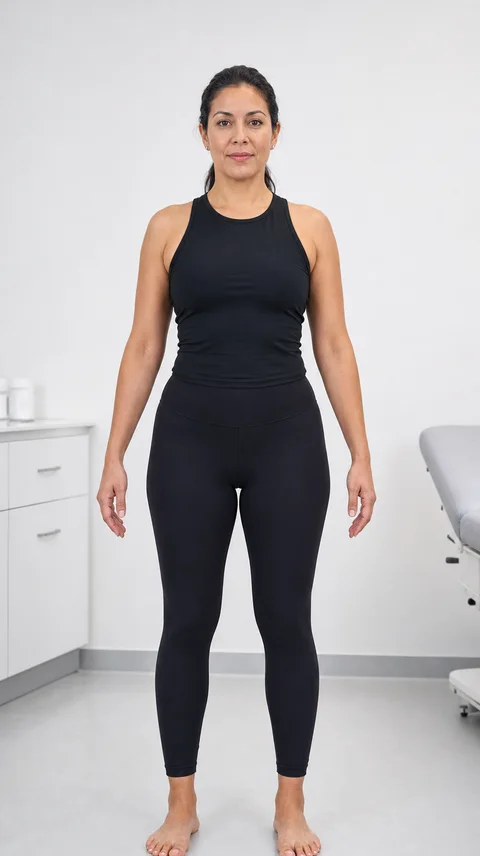
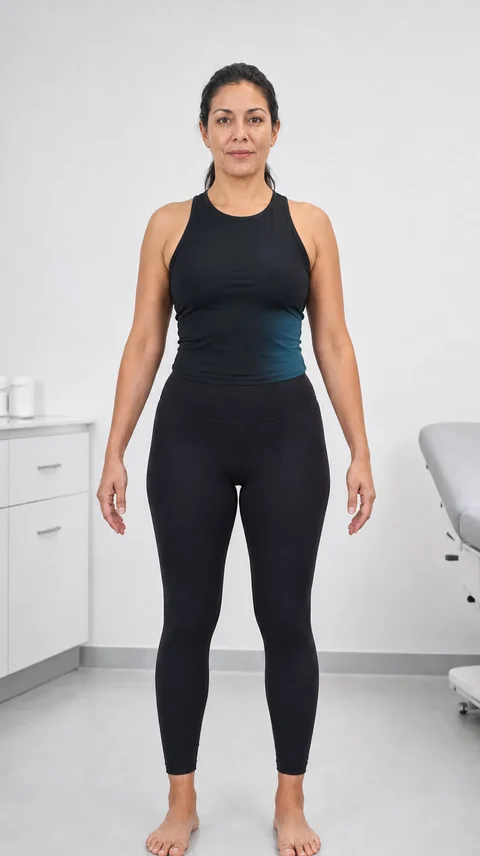
Integra selecciones en fotografías clínicas

diff --git a/public/presentacion/index.html b/public/presentacion/index.html
@@ -1764,83 +1764,9 @@
       object-fit: cover;
     }
     .body-map .clinical-photo {
-      object-fit: contain;
+      object-fit: cover;
+      object-position: center 20%;
       background: #f7f8fa;
-    }
-    .photo-zone {
-      position: absolute;
-      z-index: 1;
-      border: 1px solid rgba(2,132,199,.62);
-      border-radius: 44%;
-      background: linear-gradient(135deg, rgba(56,189,248,.24), rgba(59,130,246,.16));
-      box-shadow:
-        inset 0 0 12px rgba(186,230,253,.38),
-        0 0 0 1px rgba(255,255,255,.52);
-      backdrop-filter: saturate(1.12);
-    }
-    .face-map .zone-forehead {
-      top: 22%;
-      left: 50%;
-      width: 46%;
-      height: 12%;
-      transform: translateX(-50%);
-      border-radius: 52% 52% 38% 38%;
-    }
-    .face-map .zone-cheek-left {
-      top: 45%;
-      left: 13%;
-      width: 29%;
-      height: 16%;
-      transform: rotate(10deg);
-    }
-    .face-map .zone-cheek-right {
-      top: 45%;
-      right: 13%;
-      width: 29%;
-      height: 16%;
-      transform: rotate(-10deg);
-    }
-    .face-map .zone-nose {
-      top: 42%;
-      left: 50%;
-      width: 13%;
-      height: 21%;
-      transform: translateX(-50%);
-      border-radius: 48% 48% 42% 42%;
-    }
-    .face-map .zone-chin {
-      top: 69%;
-      left: 50%;
-      width: 24%;
-      height: 9%;
-      transform: translateX(-50%);
-      border-radius: 42% 42% 56% 56%;
-    }
-    .body-map .photo-zone {
-      border-color: rgba(192,38,211,.52);
-      background: linear-gradient(135deg, rgba(232,121,249,.20), rgba(168,85,247,.14));
-      box-shadow:
-        inset 0 0 12px rgba(250,232,255,.32),
-        0 0 0 1px rgba(255,255,255,.48);
-    }
-    .body-map .zone-abdomen {
-      top: 46%;
-      left: 50%;
-      width: 28%;
-      height: 9%;
-      transform: translateX(-50%);
-    }
-    .body-map .zone-thigh-left {
-      top: 60%;
-      left: 35%;
-      width: 12%;
-      height: 15%;
-    }
-    .body-map .zone-thigh-right {
-      top: 60%;
-      right: 35%;
-      width: 12%;
-      height: 15%;
     }
     .clinical-map .outline {
       fill: rgba(255,255,255,.72);
@@ -3225,16 +3151,11 @@
                 <span class="record-status">Migrada ✓</span>
               </div>
               <div class="record-preview">
-                <div class="clinical-map photo-map face-map" aria-label="Rostro real con zonas de tratamiento">
-                  <img class="clinical-photo" src="../presentacion/assets/clinical-face-woman.webp" alt="Rostro frontal de una mujer para ficha estética facial" loading="lazy" />
-                  <span class="photo-zone zone-forehead" aria-hidden="true"></span>
-                  <span class="photo-zone zone-cheek-left" aria-hidden="true"></span>
-                  <span class="photo-zone zone-cheek-right" aria-hidden="true"></span>
-                  <span class="photo-zone zone-nose" aria-hidden="true"></span>
-                  <span class="photo-zone zone-chin" aria-hidden="true"></span>
+                <div class="clinical-map photo-map face-map" aria-label="Rostro real con pómulo derecho seleccionado">
+                  <img class="clinical-photo" src="../presentacion/assets/clinical-face-woman.webp" alt="Rostro frontal de una mujer con el pómulo derecho marcado en azul" loading="lazy" />
                 </div>
                 <div class="record-fields">
-                  <div class="record-field"><b>Zonas tratadas</b><span>Frente · pómulos · nariz · mentón</span></div>
+                  <div class="record-field"><b>Zona seleccionada</b><span>Pómulo derecho</span></div>
                   <div class="record-field"><b>Protocolo y dosis</b><span>Detalle por producto y sesión</span></div>
                   <div class="record-field"><b>Evolución fotográfica</b><span>Antes · control · resultado</span></div>
                 </div>
@@ -3246,15 +3167,12 @@
                 <span class="record-status">Migrada ✓</span>
               </div>
               <div class="record-preview">
-                <div class="clinical-map photo-map body-map" aria-label="Cuerpo real con zonas de tratamiento">
-                  <img class="clinical-photo" src="../presentacion/assets/clinical-body-woman.webp" alt="Cuerpo frontal de una mujer para ficha estética corporal" loading="lazy" />
-                  <span class="photo-zone zone-abdomen" aria-hidden="true"></span>
-                  <span class="photo-zone zone-thigh-left" aria-hidden="true"></span>
-                  <span class="photo-zone zone-thigh-right" aria-hidden="true"></span>
+                <div class="clinical-map photo-map body-map" aria-label="Cuerpo real con flanco izquierdo seleccionado">
+                  <img class="clinical-photo" src="../presentacion/assets/clinical-body-woman.webp" alt="Cuerpo frontal de una mujer con el flanco izquierdo marcado en azul" loading="lazy" />
                 </div>
                 <div class="record-fields">
                   <div class="record-field"><b>Mediciones</b><span>Cintura · abdomen · muslos</span></div>
-                  <div class="record-field"><b>Zonas tratadas</b><span>Abdomen · flancos · piernas</span></div>
+                  <div class="record-field"><b>Zona seleccionada</b><span>Flanco izquierdo</span></div>
                   <div class="record-field"><b>Evolución</b><span>Perímetros y fotografías</span></div>
                 </div>
               </div>
